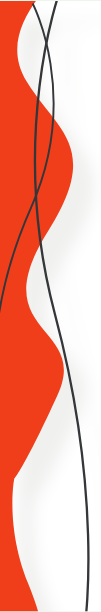
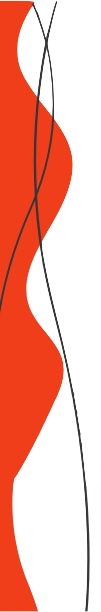
took out drop shadow of sidebar

diff --git a/index.html b/index.html
@@ -9,12 +9,12 @@
 
   <style>
     th.large-12.first {
-      padding-left: 150px;
+      padding-left: 160px;
       padding-right: 25px;
     }
 
     th.large-6.first {
-      padding-left: 150px;
+      padding-left: 160px;
     }
 
     th.large-6.last {
